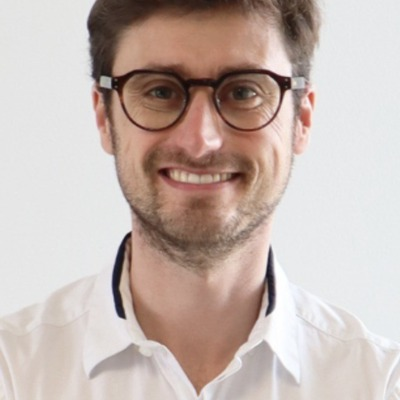
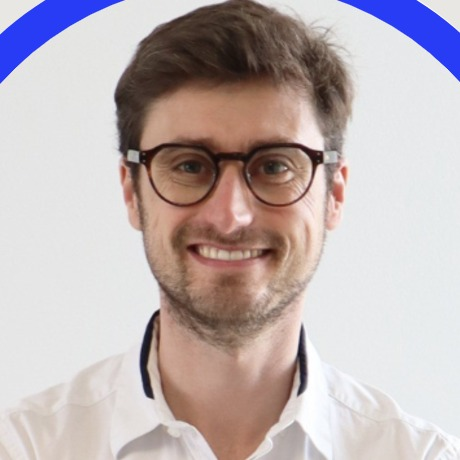
Recenter hero photo to show hair

diff --git a/index.html b/index.html
@@ -507,7 +507,7 @@ img.testi__avatar { object-fit: cover; }
       <div class="hero__grid">
         <div class="hero__copy">
           <div class="hero__intro reveal">
-            <img class="hero__intro-photo" src="assets/hero-hook-florian.jpg" alt="Florian Penez, souriant" width="400" height="400">
+            <img class="hero__intro-photo" src="assets/hero-hook-florian.jpg" alt="Florian Penez, souriant" width="460" height="460">
             <p class="hero__intro-text">Florian Penez <span>· FPZ Consulting</span></p>
           </div>
           <p class="eyebrow">SDR Senior · Closer · Setter BtoB · <span class="kicker">Francophonie</span></p>
